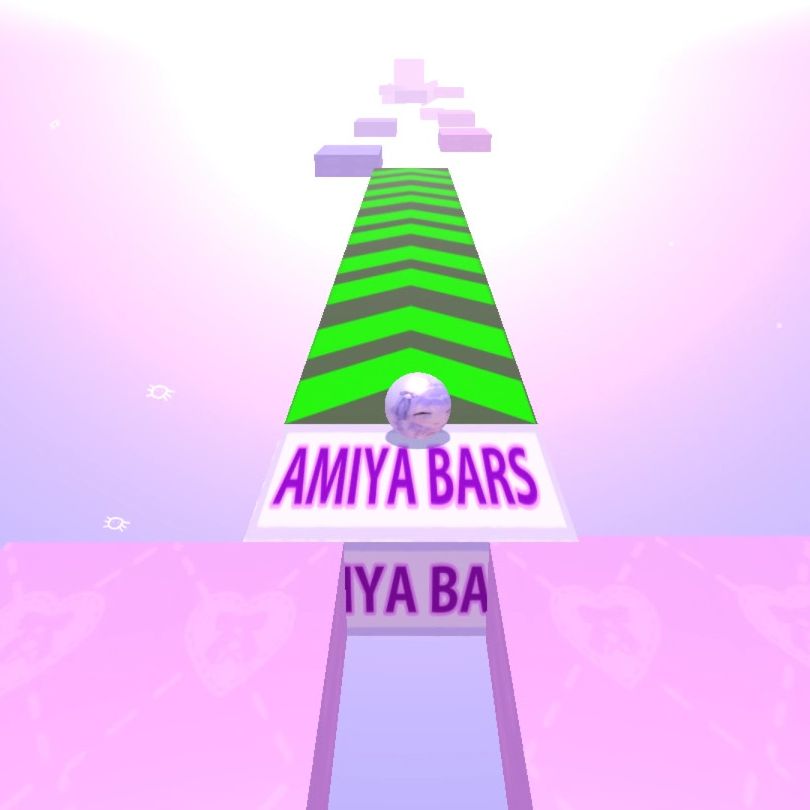
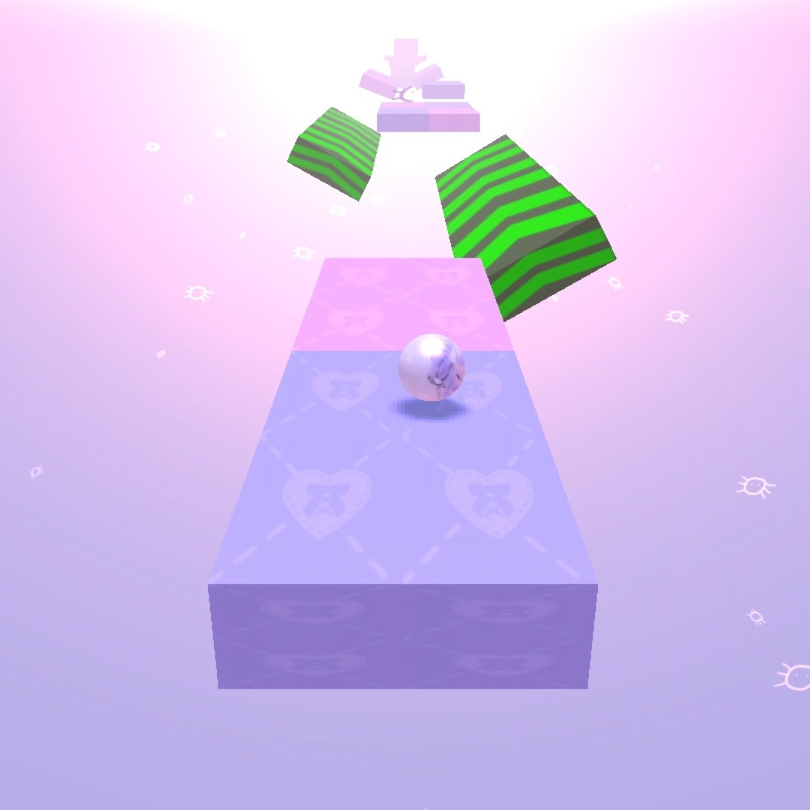
Changed levels 1-5 and 1-6

diff --git a/js/maps/MapGenerator.js b/js/maps/MapGenerator.js
@@ -5,8 +5,8 @@ mapData["1-1"] = "Tile0,c0bdf2,0,0.25,0,0,0,0|Tile1,ffbef4,-7.549517245077422e-1
 mapData["1-2"] = "Tile0,c0bdf2,0,1.5,0,0,0,0|Tile1,ffbef4,0,1.5,-12,-0.0000011446302323750192,-2.699436141208129e-13,4.7166955141621584e-7|Tile2,c0bdf2,0,1.5,-24,-0.0000011446302323750192,-2.699436141208129e-13,4.7166955141621584e-7|Tile3,ffbef4,0,1.5,-44.5,-0.0000011446302323750192,-2.699436141208129e-13,4.7166955141621584e-7|Tile4,c0bdf2,0,1.5,-56.5,-0.0000011446302323750192,-2.699436141208129e-13,4.7166955141621584e-7|Tile5,ffbef4,0,1.5,-80.5,-0.0000011446302323750192,-2.699436141208129e-13,4.7166955141621584e-7|Tile6,c0bdf2,0,1.5,-92.5,-0.0000011446302323750192,-2.699436141208129e-13,4.7166955141621584e-7|Tile7,ffbef4,0,1.5,-122.5,-0.0000011446302323750192,-2.699436141208129e-13,4.7166955141621584e-7|Tile8,c0bdf2,0,1.5,-134.5,-0.0000011446302323750192,-2.699436141208129e-13,4.7166955141621584e-7|Tile9,ffbef4,6,1.5,-152,-0.0000011446302323750192,-2.699436141208129e-13,4.7166955141621584e-7|Tile10,c0bdf2,-6,1.5,-152,-0.0000011446059033917467,-2.699384295386583e-13,4.716705177543365e-7|Tile11,ffbef4,6,1.5,-164,-0.0000011446059033917467,-2.699384295386583e-13,4.716705177543365e-7|Tile12,c0bdf2,-6,1.5,-164,-0.0000011446059033917467,-2.699384295386583e-13,4.716705177543365e-7|Tile13,ffbef4,6,3,-176,-0.0000011446059033917467,-2.699384295386583e-13,4.716705177543365e-7|Tile14,c0bdf2,-7.5,1.5,-182,0.000009038056305267004,-0.000001499382492788512,-0.3376721937412079|Tile15,ffbef4,3,4.5,-188,9.787673604932931e-8,-6.160301771980097e-16,-1.2587877407099791e-8|Tile16,c0bdf2,-1,4.5,-200,1.2777569224908874e-7,-6.779980345697631e-16,-1.0612316359015518e-8|AmiyaBar,ffffff,-1,4.5,-209,0.000004870919383412171,1.6480958484060844e-13,6.76708324931497e-8|Tile18,c0bdf2,-1,4.5,-220,0.000004870649718233092,1.6480215640136746e-13,6.767152882503086e-8|Tile19,ffbef4,4.5,4.5,-238,0.000004781184998155393,9.107934002178789e-7,0.38978676508310084|Tile20,c0bdf2,4.5,4.5,-250,0.000004426766736301849,8.432783774912281e-7,0.38978676508310073|Tile21,ffbef4,4.5,4.5,-262,0.000004426344276012871,8.43197900780286e-7,0.38978676508310084|Tile22,c0bdf2,4.5,4.5,-274,0.000004426344276012871,8.43197900780286e-7,0.38978676508310084|Tile23,ffbef4,-1.5,3,-286.5,1.7351625558603775e-7,7.20985175861636e-15,8.310289700830264e-8|Tile24,c0bdf2,-1.5,3,-298.5,-0.000003276359166199152,-1.5662139990867795e-13,9.560697833421742e-8|Tile25,ffbef4,-8,3.5,-316,1.202870159033865e-8,-3.745742290774901e-9,-0.6578393005921698|Tile26,c0bdf2,-1.5,3.5,-315.5,0.01324274255735157,0.0033494834622648786,0.5256580907152423|Tile27,ffbef4,-5.5,1,-329.5,0.09587603581718875,-0.0023363095155257553,-0.04882960352811204|Tile28,c0bdf2,3,1.5,-347.5,0.018133605652986533,0.0000011664334845097632,0.0001286558694030145|Goal,ffffff,3,6.5,-355.5,0,0,0|Player,ffffff,-1.3454872771490045e-8,3.249999523162842,-2.690974554298009e-8,2.859379942023177e-16,-2.0440134132111166e-32,-1.4296899710115885e-16";
 mapData["1-3"] = "Tile,c0bdf2,0,0,0,0,0,0|Tile,ffbef4,-1.682941969615793,0,-12,0,0,0|Tile,c0bdf2,-1.8185948536513634,0,-24,0,0,0|Tile,ffbef4,-0.2822400161197344,0,-36,0,0,0|Tile,c0bdf2,0.5588309963978517,0,-72,0,0,0|Tile,ffbef4,-1.3139731974375781,0,-84,0,0,0|Tile,c0bdf2,-1.9787164932467636,0,-96,0,0,0|Tile,ffbef4,-1.6733112770721121,0,-252,0,0,0.04|Tile,c0bdf2,0.017702618580807752,0,-264,0,0,0.04|Tile,ffbef4,1.6924408083503413,0,-276,0,0,0.04|Tile,c0bdf2,-1.5251169009592056,0,-298,0,0,0.04|Tile,ffbef4,-1.912751856809006,0,-324,0,0,0.04|Tile,ffbef4,0.317245337609418,0,-492,0,0,0|Tile,c0bdf2,1.8330430958312676,0,-504,0,0,0|Tile,ffbef4,1.6635494852571966,0,-516,0,0,0|Tile,c0bdf2,-1.8035766952976184,0,-552,0,0,0|Tile,ffbef4,-0.247146245490448,0,-564,0,0,0|AmiyaBar,ffffff,1.5365093226473336,0,-576,0,0,0|Tile,ffbef4,7.999980413101407,1.5,-132,0,0,0|Tile,c0bdf2,7.07314583600087,1.5,-144,0,0,0|Tile,ffbef4,5.159665926346718,1.5,-156,0,0,0|Tile,c0bdf2,4.0187852886102595,1.5,-168,0,0,0|Tile,c0bdf2,6.575806633330131,1.5,-192,0,0,0|Tile,ffbef4,7.922794983759114,1.5,-204,0,0,0|AmiyaBar,ffffff,7.5019744935433526,1.5,-216,0,0,0|Tile,ffbef4,5.700245580674095,1.5,-228,0,0,0|Tile,ffbef4,6.80807529064613,1.5,-372,0,0,0.04|Tile,c0bdf2,4.897146637516618,1.5,-384,0,0,0.04|Tile,ffbef4,4.000176279785466,1.5,-396,0,0,0.04|Tile,c0bdf2,4.9418346277599525,1.5,-408,0,0,0.04|Tile,c0bdf2,7.983557706886232,1.5,-432,0,0,0.04|Tile,ffbef4,7.287076266713999,1.5,-444,0,0,0.04|Tile,c0bdf2,5.407262842581229,1.5,-456,0,0,0.04|Tile,ffbef4,4.072409227431825,1.5,-468,0,0,0.04|Tile,ffbef4,4.659541648313251,1.5,-612,0,0,0|Tile,c0bdf2,4.026744815919029,1.5,-624,0,0,0|Tile,ffbef4,5.208149699636332,1.5,-636,0,0,0|Tile,c0bdf2,7.117578097703232,1.5,-648,0,0,0|Tile,c0bdf2,7.043102004173823,1.5,-672,0,0,0|Tile,ffbef4,5.12767048950435,1.5,-684,0,0,0|Tile,c0bdf2,4.014254703830925,1.5,-696,0,0,0|Tile,ffbef4,4.726523985721724,1.5,-708,0,0,0|Tile,c0bdf2,-7.973193476339988,-1,-120,0,0,0|Tile,ffbef4,-4.986732699485144,-1,-132,0,0,0|Tile,ffbef4,-3.697826692476052,-1,-156,0,0,0|Tile,c0bdf2,-6.58039570107137,-1,-168,0,0,0|AmiyaBar,ffffff,-8.585075124305089,-1,-192,0,0,0|Tile,ffbef4,-5.864092522275234,-1,-204,0,0,0|Tile,ffbef4,-3.1837633551029443,-1,-228,0,0,0|Tile,ffbef4,-2.851735281263341,-1,-362,0,0,-0.04|Tile,c0bdf2,-4.04875659972216,-1,-384,0,0,-0.04|Tile,c0bdf2,-9.074793510473839,-1,-408,0,0,-0.04|Tile,ffbef4,-8.282893945778369,-1,-420,0,0,-0.04|Tile,ffbef4,-3.06021971080697,-1,-444,0,0,-0.04|Tile,c0bdf2,-3.431147646567501,-1,-456,0,0,-0.04|Tile,c0bdf2,-2.8427270608197315,-1,-600,0,0,0|Tile,c0bdf2,-7.475599934427602,-1,-624,0,0,0|Tile,ffbef4,-9.15077350881819,-1,-636,0,0,0|Tile,ffbef4,-4.933864557855513,-1,-660,0,0,0|Tile,c0bdf2,-2.918788674745336,-1,-672,0,0,0|Tile,c0bdf2,-6.635332241738079,-1,-696,0,0,0|Tile,ffbef4,-8.949978676066673,-1,-708,0,0,0|Goal,00ff00,-8.949978676066673,3,-709,0,0,0|Player,ffffff,0,3,0,0,-0.6051864057360395,0";
 mapData["1-4"] = "Tile0,c0bdf2,0,1.25,0,0,0,0|Tile1,ffbef4,-6.217248937900877e-14,1.2500004768371582,-11.999993324279785,-8.339016326422422e-14,3.924122948179535e-34,-9.411476832695085e-21|Tile2,c0bdf2,-4.2743586448068527e-14,1.2500007152557373,-23.800018310546875,1.3698912067639651e-13,-6.446349677885885e-34,-9.411476832695085e-21|Tile3,ffbef4,5.745405507687901e-14,1.2500009536743164,-35.80006408691406,-7.364441088203444e-13,5.848053974832778e-33,-1.588186776101813e-20|Tile4,c0bdf2,-5.999998569488525,1.2500011920928955,-35.80006408691406,-2.015051320247707e-12,4.622626288441468e-33,-4.588097823606017e-21|Tile5,ffbef4,-5.999998569488525,1.2500014305114746,-47.80010986328125,-3.056810880808225e-12,2.128158865039973e-25,-1.3924046648756266e-13|Tile6,c0bdf2,-5.999998569488525,1.2500016689300537,-59.80015563964844,-4.335417875395153e-12,5.394885111814471e-25,-2.488749766167697e-13|Tile7,ffbef4,-5.999998569488525,1.2500019073486328,-71.800048828125,-5.377177002274802e-12,1.0434826810069866e-24,-3.881154295518052e-13|Tile8,c0bdf2,3.8743019104003906e-7,1.2500019073486328,-71.800048828125,-5.836069041226244e-12,9.890887757552623e-25,-3.389571880552805e-13|Tile9,ffbef4,3.8743019104003906e-7,1.250002145767212,-83.79986572265625,-6.103447608429846e-12,1.0344037193980538e-24,-3.389571880552805e-13|Tile10,c0bdf2,3.8743019104003906e-7,1.250002384185791,-95.7996826171875,-6.370826175633448e-12,1.0797186630408452e-24,-3.389571880552805e-13|Tile11,ffbef4,6.000679969787598,1.2608957290649414,-95.7996826171875,-6.7862343348934484e-12,3.127245796164427e-20,-9.216439167403223e-9|Tile12,c0bdf2,6.000679969787598,1.2608959674835205,-107.79949951171875,-7.053612902097051e-12,3.2504706746462297e-20,-9.216470253647913e-9|Tile13,ffbef4,6.000679969787598,1.2608962059020996,-119.79931640625,-7.320991902981522e-12,3.3736965841586043e-20,-9.216501339892602e-9|Tile14,c0bdf2,6.000679969787598,1.2608964443206787,-131.79913330078125,-7.588370903865993e-12,3.4969233248518836e-20,-9.216532426137292e-9|Tile15,ffbef4,0.000681072473526001,1.2608966827392578,-131.79913330078125,-7.855749904750464e-12,3.6201508967260676e-20,-9.216563512381981e-9|Tile16,c0bdf2,-0.07347646355628967,4.84999942779541,-53.799076080322266,-0.000011268510206957408,-7.857537080878837e-12,0.0000013946008721181752|Tile17,ffbef4,-0.07347646355628967,4.84999942779541,-116.3983154296875,-0.000011268510206957408,-7.857537080878837e-12,0.0000013946008721181752|Tile18,c0bdf2,-6.258487701416016e-7,1.260896921157837,-143.79827880859375,-0.000002774695076372077,1.66530255193223e-14,-1.2003499527679781e-8|Tile19,ffbef4,-6.258487701416016e-7,1.260896921157837,-155.798095703125,-0.000002774695076372077,1.66530255193223e-14,-1.2003499527679781e-8|Tile20,c0bdf2,-6.258487701416016e-7,1.260896921157837,-188.59759521484375,-0.000002774695076372077,1.66530255193223e-14,-1.2003499527679781e-8|Tile21,ffbef4,-6.258487701416016e-7,1.260896921157837,-212.59722900390625,-0.000002774695076372077,1.66530255193223e-14,-1.2003499527679781e-8|Tile22,c0bdf2,-6.258487701416016e-7,1.260896921157837,-230.59695434570312,-0.000002774695076372077,1.66530255193223e-14,-1.2003499527679781e-8|Tile23,ffbef4,5.999998092651367,1.260896921157837,-230.59695434570312,-0.000002774695076372077,1.66530255193223e-14,-1.2003499527679781e-8|Tile24,c0bdf2,5.999998092651367,1.260896921157837,-254.7965850830078,-0.000002774695076372077,1.66530255193223e-14,-1.2003499527679781e-8|Tile25,ffbef4,-0.0000011026859283447266,1.260896921157837,-272.5975646972656,-0.000002774695076372077,1.66530255193223e-14,-1.2003499527679781e-8|Tile26,c0bdf2,-7.399998664855957,1.260896921157837,-287.9985046386719,-0.000002688432005019022,6.65128415575507e-7,-0.5133994294317872|Tile27,ffbef4,-7.305878162384033,1.239469289779663,-299.9992370605469,-0.0000025159154120073407,6.22447184595364e-7,-0.5133994623885403|Tile28,c0bdf2,-7.211751461029053,1.2180531024932861,-311.9999694824219,-0.0000023628940653019815,5.845891127440586e-7,-0.5133994623885403|Tile29,ffbef4,-7.1176323890686035,1.196626901626587,-323.8006896972656,-0.000002207932539024088,5.462510329772333e-7,-0.5133994623885402|Tile30,c0bdf2,0.1764894723892212,-1.4247944056987762,-335.4013977050781,-1.6161345683940525e-7,1.0311584309547236e-10,-0.0012760802608562654|Tile31,ffbef4,0.1764894723892212,-1.4247929751873016,-347.4021301269531,-1.7047469214049022e-8,1.147330578202497e-12,-0.00013460421218670907|Tile32,c0bdf2,6.176488876342773,2.3752079010009766,-362.4030456542969,-1.639210900350469e-8,-4.712476720363144e-9,0.6031889723440547|Tile33,ffbef4,6.034595012664795,2.4015960693359375,-381.4042053222656,-3.42913395456892e-8,-9.858227473022467e-9,0.6031889723440546|Tile34,c0bdf2,5.892698764801025,2.427985668182373,-401.4054260253906,-6.465060664595511e-8,-1.8586045194750847e-8,0.6031889723440538|Tile35,ffbef4,-6.2491865158081055,2.654362201690674,-415.0062561035156,-9.035024817194406e-8,2.598590902182462e-8,-0.6034806522342421|Tile36,c0bdf2,-6.107123374938965,2.880901336669922,-438.6076965332031,-7.287087555596379e-8,2.0958613626984794e-8,-0.6034806522342424|Tile37,ffbef4,3.233452320098877,3.1050705909729004,-452.6085510253906,-6.671483276932135e-8,-8.864556147139583e-9,0.26880462114666204|Tile38,c0bdf2,-3.982316255569458,3.1633543968200684,-472.0097351074219,-7.790927014639286e-8,9.718498489163171e-9,-0.2520211226295307|Tile39,ffbef4,1.2303059101104736,3.2131576538085938,-494.2110900878906,-7.951898339797489e-8,-3.3069603146027194e-9,0.08326980875434409|Tile40,c0bdf2,-0.37019237875938416,3.21913480758667,-520.212646484375,-8.19647496541621e-8,5.546240928464378e-12,-0.0001353323463756218|Tile41,ffbef4,-0.37019237875938416,3.21913480758667,-532.21337890625,-2.909109575455218e-8,6.986479125175369e-13,-0.0000480317358054039|Goal,00ff00,-0.37019237875938416,5.219133377075195,-539.6138305664062,0,0,0|AmiyaBar,ffffff,5.999307632446289,1.2719132900238037,-140.79762268066406,-0.000001029617806125492,7.454042819705844e-16,-1.4479242249620938e-9|AmiyaBar,ffffff,6.235138416290283,2.252838134765625,-371.329345703125,0.000001824798573580766,5.101355766663709e-7,0.5852492442861101|Player,ffffff,0,3,0,0,0,0";
-mapData["1-5"] = "Tile0,c0bdf2,0,1.25,0,0,0,0|Tile1,ffbef4,-6.217248937900877e-14,1.2500004768371582,-11.999993324279785,-8.339016326422422e-14,3.924122948179535e-34,-9.411476832695085e-21|Tile2,c0bdf2,-4.2743586448068527e-14,1.2500007152557373,-24.000019073486328,1.3698912067639651e-13,-6.446349677885885e-34,-9.411476832695085e-21|Boost3,ffffff,5.745405507687901e-14,1.2500009536743164,-36.000064849853516,-7.364441088203444e-13,5.848053974832778e-33,-1.588186776101813e-20|Tile4,c0bdf2,1.6361915891171391e-13,1.2500011920928955,-48.0001106262207,-1.9817446295089525e-12,3.6719472515775156e-33,-3.705772375411832e-21|Tile5,ffbef4,3.246276136792403e-9,1.2608990669250488,-98.59896087646484,6.850426004234578e-9,2.3611019789193848e-24,6.893299708543305e-16|Tile6,c0bdf2,3.2462155186152586e-9,1.260899305343628,-110.5987777709961,6.849909528483522e-9,2.360901665993926e-24,6.893234592885485e-16|Tile7,ffbef4,3.2461593413302126e-9,1.260899543762207,-122.59859466552734,6.849540490350137e-9,2.3607612373471865e-24,6.893195947007267e-16|Tile8,c0bdf2,4.400000095367432,1.2609000205993652,-134.59841918945312,6.848919653634766e-9,2.3605472598906792e-24,6.893195947007267e-16|Tile9,ffbef4,4.400000095367432,1.2609002590179443,-146.59823608398438,6.8483858584045265e-9,-1.0337214695659608e-22,-3.0188762459911617e-14|Tile10,c0bdf2,4.400000095367432,1.2609007358551025,-158.59805297851562,6.847673983401137e-9,7.165330236416529e-23,2.092777855308356e-14|Tile11,ffbef4,4.399319648742676,1.2717938423156738,-170.59786987304688,6.847941325105467e-9,9.280963065265479e-18,2.710584867671173e-9|Tile12,c0bdf2,-4.200681686401367,1.271794319152832,-134.59841918945312,6.8498073879652566e-9,9.283934726308019e-18,2.7107140976312394e-9|Tile13,ffbef4,-4.200681686401367,1.2717945575714111,-146.3982391357422,6.849273592735017e-9,9.283105544504789e-18,2.710683233431155e-9|Tile14,c0bdf2,-4.200681686401367,1.2717947959899902,-158.39805603027344,6.848799305458897e-9,9.282490856891501e-18,2.710691449081537e-9|Tile15,ffbef4,-4.200681686401367,1.2717950344085693,-170.3978729248047,6.848250855284732e-9,9.282006782517851e-18,2.7107671662918165e-9|AmiyaBar,ffffff,3.246276136792403e-9,1.2717759609222412,-179.3970489501953,5.376299583303992e-8,1.8530213636747555e-23,6.893296532169758e-16|Boost17,ffffff,3.2462297294699738e-9,1.2717759609222412,-188.39691162109375,5.376266898338147e-8,1.852993448210484e-23,6.89323459288549e-16|Boost18,ffffff,3.246149571367596e-9,1.2717761993408203,-200.396728515625,5.376213252361597e-8,1.852994169964702e-23,6.893306061290415e-16|Boost19,ffffff,3.2460374388421087e-9,1.2717764377593994,-212.39654541015625,5.3761446849875964e-8,1.852894830715825e-23,6.893024422835453e-16|Boost20,ffffff,3.2459572807397308e-9,1.2717766761779785,-224.3963623046875,5.3760910390110466e-8,1.8528968333325663e-23,6.893100655800706e-16|Boost21,ffffff,3.2458451482142436e-9,1.2717769145965576,-236.39617919921875,5.376022471637046e-8,1.8527822701809886e-23,6.892762372017396e-16|Tile22,c0bdf2,-5.999998569488525,1.2717771530151367,-260.1961364746094,5.375968825660496e-8,1.852773885082967e-23,6.89279995910443e-16|Tile23,ffbef4,6.599998474121094,1.271777629852295,-287.1977844238281,5.3758483886667845e-8,-8.602488001188776e-21,-3.200420614288271e-13|Tile24,c0bdf2,-5.199999809265137,1.2717781066894531,-312.2421569824219,5.37579722958981e-8,-1.4376767688350246e-20,-5.34870162483686e-13|Tile25,ffbef4,7.799996852874756,1.2717781066894531,-337.8008728027344,5.37576028136755e-8,-1.4012767665258477e-20,-5.213315673255337e-13|Tile26,c0bdf2,-3.2782554626464844e-7,4.2717766761779785,-355.4019470214844,5.375716582989301e-8,-1.7589765289867325e-20,-6.544156492746538e-13|Tile27,ffbef4,7.999996662139893,4.2717766761779785,-380.2034606933594,5.3755940143673824e-8,-1.7589364235745857e-20,-6.544156492746538e-13|Tile28,c0bdf2,-4.200000762939453,4.2717766761779785,-400.4046936035156,5.3755549345169156e-8,-2.148453809436823e-20,-7.993421462931805e-13|Tile29,ffbef4,5.399999141693115,-1.5282222628593445,-414.4055480957031,5.37551905210876e-8,-1.9495468750434716e-20,-7.253427459358313e-13|Tile30,c0bdf2,-4.40000057220459,1.2717785835266113,-431.2065734863281,5.375443379307401e-8,-2.521612724796977e-20,-9.381971111457877e-13|Boost31,ffffff,5.399999141693115,1.2717788219451904,-447.4075622558594,5.2398725358671066e-8,1.1690487032307243e-8,0.46007777307507697|Boost32,ffffff,5.32947301864624,1.4219682216644287,-459.2082824707031,5.43936309327365e-8,1.2135563893534326e-8,0.46007780552272526|Boost33,ffffff,5.258944034576416,1.5721633434295654,-471.0090026855469,7.154128667252742e-8,1.5961314597911773e-8,0.4600778055227251|Tile34,c0bdf2,5.188405990600586,1.7223758697509766,-482.8097229003906,8.968302722678368e-8,2.00088519264705e-8,0.46007780552272526|Tile35,ffbef4,-5.082132339477539,1.8725907802581787,-499.2107238769531,1.1431193058797374e-7,-2.3643084921038314e-8,-0.424816245734503|Tile36,c0bdf2,-2.4251785278320312,2.0043845176696777,-516.811767578125,6.50997336038017e-8,-8.654263150471608e-9,-0.26894150897041746|Tile37,ffbef4,5.390671730041504,2.0629453659057617,-535.8129272460938,8.235549842083865e-8,1.3725334202870763e-9,0.033338089457551144|Tile38,c0bdf2,7.3906378746032715,2.0639166831970215,-558.8143310546875,8.187045352769926e-8,1.492565111207159e-8,0.37235860733954107|Tile39,ffbef4,-0.8480234146118164,2.166430711746216,-570.4150390625,1.0025129881796632e-7,-1.6707620746087801e-9,-0.033337649629242114|Goal,ffffff,-0.8479909896850586,5.367399215698242,-577.8154907226562,0,0,0|Player,ffffff,0,3,0,0,0,0";
-mapData["1-6"] = "Tile0,c0bdf2,0,1.25,0,0,0,0|Tile1,ffbef4,-6.217248937900877e-14,1.2500004768371582,-11.999993324279785,-8.339016326422422e-14,3.924122948179535e-34,-9.411476832695085e-21|Tile2,c0bdf2,-4.2743586448068527e-14,1.2500007152557373,-23.800018310546875,1.3698912067639651e-13,-6.446349677885885e-34,-9.411476832695085e-21|Tile3,ffbef4,5.999998569488525,1.2500009536743164,-23.800018310546875,6.402902296906432e-13,-1.2005723345249229e-26,-3.7500879409169824e-14|Tile4,c0bdf2,5.999998569488525,1.2500011920928955,-35.80006408691406,-7.549475909869596e-13,-6.162799993192096e-26,1.6326431309318656e-13|Tile5,ffbef4,5.999998569488525,1.2500014305114746,-47.80010986328125,-1.7967070973373689e-12,-2.717562300506434e-25,3.0250476602822207e-13|Tile6,c0bdf2,5.999998569488525,1.2500016689300537,-74.60000610351562,-3.0753143087647317e-12,-6.337288857463002e-25,4.1213926260490197e-13|Tile7,ffbef4,5.999998569488525,1.2500019073486328,-86.59982299804688,-3.3426930928087684e-12,-7.414019282668396e-25,4.4359557260092997e-13|Tile8,c0bdf2,-5.999999046325684,1.250002145767212,-104.39955139160156,-3.728495377025576e-12,-8.994125956144796e-25,4.824533784628104e-13|Tile9,ffbef4,-5.999999046325684,1.250002384185791,-116.39936828613281,-3.995873944229178e-12,-1.0267592210539936e-24,5.139097155638928e-13|Tile10,c0bdf2,-5.999999046325684,1.2500026226043701,-128.39918518066406,-4.26325251143278e-12,-1.1625165968370684e-24,5.453660526649751e-13|Tile11,ffbef4,0.3999999463558197,3.4500017166137695,-142.79896545410156,-4.530631078636382e-12,-1.3066847229637041e-24,5.768223897660574e-13|Tile12,c0bdf2,4.400000095367432,3.4500017166137695,-154.59878540039062,-6.349545455391903e-12,-1.7803677852782734e-24,5.607859012227157e-13|Tile13,ffbef4,0.7999997138977051,3.4500017166137695,-166.59860229492188,-9.491477916123703e-12,-3.7502349264966625e-24,7.902320291186538e-13|Tile14,c0bdf2,5.1999993324279785,3.4500017166137695,-178.59841918945312,-1.1288190868152803e-11,-4.486602262163804e-24,7.949196314215035e-13|Tile15,ffbef4,1.7999999523162842,3.4500017166137695,-190.59823608398438,-1.3084903820181903e-11,-6.66473823811335e-24,1.0186912077769783e-12|Tile16,c0bdf2,-3.0000009536743164,3.4500017166137695,-202.59805297851562,-1.4019109657870121e-11,-7.111903245042486e-24,1.0146012719217112e-12|Tile17,ffbef4,4.200000286102295,-0.34999775886535645,-222.79774475097656,-1.5815820875175746e-11,-7.795107837863057e-24,9.857354732814572e-13|Tile18,c0bdf2,4.200000286102295,-0.34999752044677734,-234.7975616455078,-1.6556894744113038e-11,-9.270417183113498e-24,1.1198255864264262e-12|Tile19,ffbef4,4.200000286102295,-0.34999728202819824,-246.79737854003906,-1.729796861305033e-11,-1.084509720729852e-23,1.2539156995713951e-12|Boost20,ffffff,4.200000286102295,-0.34999704360961914,-258.7973937988281,-1.803904248198762e-11,-1.2519147910418124e-23,1.3880058127163641e-12|Tile21,ffbef4,4.200000286102295,-0.34999680519104004,-270.7981262207031,-1.8991117706201877e-11,-1.0899008192241088e-23,1.1478006045617661e-12|Tile22,c0bdf2,4.200000286102295,-0.34999656677246094,-282.7988586425781,-1.994319293041613e-11,-9.050175046652831e-24,9.075953964071681e-13|Tile23,ffbef4,4.200000286102295,-0.34999632835388184,-294.5995788574219,-2.0895268154630386e-11,-6.972647907285975e-24,6.673901340424615e-13|Boost24,ffffff,4.200000286102295,-0.34999608993530273,-306.6003112792969,-2.184734337884464e-11,-4.666427288895798e-24,4.2718487167775487e-13|Tile25,ffbef4,4.200000286102295,-0.34999585151672363,-318.6010437011719,-2.2799418603058896e-11,-2.1315131914822983e-24,1.8697960931304825e-13|Boost26,ffffff,4.200000286102295,-0.34999561309814453,-330.6017761230469,-2.375149382727315e-11,6.320940630617581e-25,-5.322562594660407e-14|Tile27,ffbef4,4.200000286102295,-0.34999537467956543,-342.6025085449219,-2.4703569051487406e-11,-2.3095318449425125e-24,1.8697960931304825e-13|Tile28,c0bdf2,4.200000286102295,-0.34999513626098633,-354.6032409667969,-2.565564427570166e-11,6.827688628188153e-25,-5.322562594660407e-14|Tile29,ffbef4,-1.8006813526153564,-0.3391042947769165,-222.79774475097656,3.236782220028545e-8,7.017295705099393e-17,4.3359702495137265e-9|Boost30,ffffff,-1.8006813526153564,-0.3391040563583374,-234.7975616455078,3.236746692891757e-8,7.017232338135984e-17,4.335978687208714e-9|Tile31,ffbef4,-1.8006813526153564,-0.3391038179397583,-246.79737854003906,3.236711165754969e-8,7.017168970872808e-17,4.335987124903701e-9|Tile32,c0bdf2,-1.8006813526153564,-0.3391035795211792,-258.7973937988281,3.236675638618181e-8,7.017105603309865e-17,4.335995562598688e-9|Tile33,ffbef4,-1.8006813526153564,-0.33910346031188965,-270.7981262207031,3.236628032254885e-8,7.017052700125353e-17,4.3360266488433775e-9|Boost34,ffffff,-1.8006813526153564,-0.33910322189331055,-282.7988586425781,3.2365921498467294e-8,7.017018745323697e-17,4.336053738285178e-9|Tile35,ffbef4,-1.8006813526153564,-0.33910298347473145,-294.7995910644531,3.2365562674385735e-8,7.016985508209864e-17,4.336081271816189e-9|Tile36,c0bdf2,-1.8006813526153564,-0.33910274505615234,-306.8003234863281,3.2365203850304176e-8,7.016952270108062e-17,4.3361088053472e-9|Tile37,ffbef4,-1.8006813526153564,-0.33910250663757324,-374.4044494628906,3.236484502622262e-8,7.01691903101829e-17,4.3361363388782104e-9|Tile38,c0bdf2,2.7993195056915283,-0.33910226821899414,-386.4051818847656,3.236448620214106e-8,7.01688579094055e-17,4.336163872409221e-9|Goal,ffffff,-0.20068109035491943,4.4608964920043945,-394.4056701660156,0,0,0|Death40,ffffff,3.2462748045247736e-9,1.2608985900878906,-30.799362182617188,6.850973122141113e-9,2.361290007273422e-24,6.893298120356529e-16|Death41,ffffff,5.9989118576049805,1.2789390087127686,-64.1467514038086,0.0011925529022846577,1.2983590692492332e-12,2.1774453351497414e-9|Death42,ffffff,5.9989118576049805,1.281012773513794,-93.88528442382812,0.0014066122221275009,-4.452626828421595e-11,-6.330996171755038e-8|Death43,ffffff,-3.3729710578918457,1.250002384185791,-116.60306549072266,0.0000029616994652358343,-4.748497485851764e-13,-3.206603196304113e-7|Death44,ffffff,-4.372947692871094,3.4500017166137695,-137.74679565429688,0.0011958313929156883,-2.598373929943182e-10,-4.3457205833875405e-7|Death45,ffffff,-1.5730645656585693,3.4553966522216797,-159.293212890625,0.002386232075801357,-5.027198749707544e-10,-4.213507622807892e-7|Death46,ffffff,6.826956748962402,3.459580421447754,-171.83651733398438,0.0035746183003979594,-4.484687750922825e-9,-0.0000025091894713140346|Death47,ffffff,-0.773064374923706,3.4658236503601074,-183.57644653320312,0.004760647479507936,-9.969111970032063e-10,-4.188148636785706e-7|Death48,ffffff,-2.9730420112609863,3.474116325378418,-209.71316528320312,0.005943715177457716,-1.3597034154620862e-8,-0.00000457529131382903|Death49,ffffff,-1.773064374923706,0.884479284286499,-241.65223693847656,0.007125209768054309,-1.4838177484360455e-9,-4.1650150706119206e-7|Death50,ffffff,4.226959228515625,0.8968415260314941,-265.58441162109375,0.008303979846538993,-2.7538657799965016e-8,-0.000006632717031655665|Death51,ffffff,-1.7730650901794434,0.9112014770507812,-289.5122985839844,0.009480411629302268,-1.9585298639561373e-9,-4.13180202940578e-7|Death52,ffffff,4.226958751678467,0.9275524616241455,-313.6358947753906,0.010653994413725852,-4.623718529208724e-8,-0.000008679948223398095|Death53,ffffff,4.226936340332031,0.9459261894226074,-337.3596496582031,0.011825288546643817,-2.429609650708078e-9,-4.1092718561232456e-7|Tile54,c0bdf2,4.598203182220459,1.2614772319793701,-116.3214111328125,0.000003238963699919829,-9.250432762478302e-13,-5.711970629818385e-7|Player,ffffff,0,3,0,0,0,0";
+mapData["1-5"] = "Tile0,c0bdf2,0,1.5,0,0,0,0|Tile1,ffbef4,0,1.5,-12,-5.5748086702500643e-11,2.1377276851561215e-28,-7.669241445232348e-18|Boost2,ffffff,0,1.5,-24,-6.530994495212994e-11,-6.003944716896674e-22,1.8386004524417743e-11|Boost3,ffffff,0,1.5,-36,-6.544317171508496e-11,-6.016192256228996e-22,1.8386004524417743e-11|Tile4,c0bdf2,0,1.5,-84,5.393876900683381e-9,-7.390219338398049e-25,-2.7402254350527503e-16|Tile5,ffbef4,0,1.5,-96,5.393876900683381e-9,-7.390219338398049e-25,-2.7402254350527503e-16|Boost6,ffffff,5.5,1.5,-109.5,5.21488807692094e-9,1.3322460982046492e-9,0.5312850058660458|Boost7,ffffff,5.5,1.5,-121.5,1.0990957832746087e-7,2.8078571336958046e-8,0.5312850058660454|Boost8,ffffff,5.5,1.5,-133.5,1.0990795829002331e-7,2.8078157466416048e-8,0.5312850058660454|Boost9,ffffff,-5.5,1.5,-144.5,1.0949590034670079e-7,-2.6204682331313556e-8,-0.49556933096235833|Boost10,ffffff,-5.5,1.5,-156.5,1.0949590034670079e-7,-2.6204682331313556e-8,-0.49556933096235833|Boost11,ffffff,-5.5,1.5,-168.5,1.0949590034670079e-7,-2.6204682331313556e-8,-0.49556933096235833|Tile12,c0bdf2,0,1.5,-188.5,5.46466694117953e-9,-2.649611011542665e-25,-9.697246108729017e-17|Tile13,ffbef4,0,1.5,-200.5,5.46466694117953e-9,-2.649611011542665e-25,-9.697246108729017e-17|Tile14,c0bdf2,6,1.5,-200.5,5.46466694117953e-9,-2.649611011542665e-25,-9.697246108729017e-17|Tile15,ffbef4,6,1.5,-188.5,5.46466694117953e-9,-2.649611011542665e-25,-9.697246108729017e-17|Tile16,c0bdf2,6,3.5,-220,-5.09281846916587e-7,2.4693160411434493e-23,-9.697247432217997e-17|Tile17,ffbef4,-4,3.5,-236,-3.691331471600346e-7,6.426902247144899e-8,-0.35498653077671627|Tile18,c0bdf2,-4,3.5,-248,-2.9765243425572847e-7,5.182366073878887e-8,-0.354986530776717|Tile19,ffbef4,-4,3.5,-260,-2.976661335196739e-7,5.182604588980857e-8,-0.354986530776717|Tile20,c0bdf2,5,3.5,-274.5,-2.9588815664283603e-7,-6.119847098010145e-8,0.4248166632558039|Tile21,ffbef4,5,3.5,-286.5,-2.90315114170885e-7,-6.004580004571775e-8,0.42481666325580414|Tile22,c0bdf2,5,3.5,-298.5,-2.902121138959087e-7,-6.002449652546009e-8,0.42481666325580414|Boost23,ffffff,0,1.5,-314,1.9215831059682506e-7,4.2767998116309796e-24,4.451329529644253e-17|Boost24,ffffff,0,2.5,-326.5,0.18408911019563584,1.717440998744135e-17,1.8761971687584865e-16|Tile25,ffbef4,0,1.5,-374.5,-1.1146932621386463e-7,5.518696845766369e-24,-9.901731773597054e-17|Tile26,c0bdf2,0,1.5,-386.5,-1.1146932621386463e-7,5.518696845766369e-24,-9.901731773597054e-17|Tile27,ffbef4,0,1.5,-416,-1.1146932621386463e-7,5.518696845766369e-24,-9.901731773597054e-17|Tile28,c0bdf2,0,3.5,-440,1.370700459801818e-7,-1.5766311013804282e-23,-2.3004750455958795e-16|Tile29,ffbef4,0,3.5,-452,1.370700459801818e-7,-1.5766311013804282e-23,-2.3004750455958795e-16|Tile30,c0bdf2,0,3.5,-477.5,1.370700459801818e-7,-1.5766311013804282e-23,-2.3004750455958795e-16|Tile31,ffbef4,7,3.5,-499,1.3535562004562967e-7,2.1341856260520773e-8,0.3204101708773784|Tile32,c0bdf2,-5,3.5,-513,1.3600151760329035e-7,-1.6955970726396947e-8,-0.2518843866170029|Tile33,ffbef4,4,1.5,-533.5,1.3649447794250665e-7,1.249439858687556e-8,0.18408779243903803|Tile34,c0bdf2,-3.5,1.5,-557,0.2515632696155031,-0.012350054298192529,-0.09934168995120225|Tile35,ffbef4,5,2,-577,0.06618122500114354,0.0016522115446724161,0.049987017742699584|Goal,ffffff,1.5,5.5,-585,0,0,0|AmiyaBar,ffffff,0,1.5,-406.5,1.1926395870887071e-8,-1.3279075594982517e-24,-2.226837971628531e-16|AmiyaBar,ffffff,0,1.5,-425.5,1.1926395870887071e-8,-1.3279075594982517e-24,-2.226837971628531e-16|Ball39,ffffff,-2,8.5,-379.5,1.1926395870887065e-8,-1.3279075594982517e-24,-2.226837971628531e-16|Ball40,ffffff,0,4.5,-195,-0.0000012455917612900104,-9.205114715631618e-15,1.478030764445748e-8|Player,ffffff,-1.3711811241989835e-8,3.249999523162842,-2.742362248397967e-8,5.346068563628014e-16,-7.145112271752924e-32,-2.673034281814007e-16";
+mapData["1-6"] = "Tile0,c0bdf2,0,1.5,0,0,0,0|Tile1,ffbef4,0,1.5,-12,-3.582001709134808e-11,2.3963126669103365e-29,-1.33797404998399e-18|Tile2,c0bdf2,0,1.5,-24,-3.617091001717476e-11,-1.0120156706705179e-22,5.5957434866305e-12|Tile3,ffbef4,6,1.5,-24,-3.619178567948467e-11,-1.0125997449275167e-22,5.5957434866305e-12|Tile4,c0bdf2,6,1.5,-36,-3.6015877780126715e-11,-1.0094107272455524e-22,5.605365130390005e-12|Tile5,ffbef4,6,1.5,-48,-3.6015877780126715e-11,-1.0094107272455524e-22,5.605365130390005e-12|Tile6,c0bdf2,0,1.5,-48,-3.6115044982354405e-11,-1.0184576150661395e-22,5.640073911378218e-12|Tile7,ffbef4,0,1.5,-60,-3.7012979486883424e-11,-1.0437796999317418e-22,5.640073911378218e-12|Tile8,c0bdf2,0,1.5,-80.5,-3.7012979486883424e-11,-1.0437796999317418e-22,5.640073911378218e-12|Tile9,ffbef4,0,1.5,-92.5,-3.7012979486883424e-11,-1.0437796999317418e-22,5.640073911378218e-12|Tile10,c0bdf2,0,1.5,-116.5,-3.7012979486883424e-11,-1.0437796999317418e-22,5.640073911378218e-12|Tile11,ffbef4,0,1.5,-128.5,-3.7012979486883424e-11,-1.0437796999317418e-22,5.640073911378218e-12|Tile12,c0bdf2,6,2.5,-146.5,-3.6212605830643295e-11,-7.489836891583947e-12,0.42481624573450294|Tile13,ffbef4,6,2.5,-158.5,6.579791156369197e-10,1.3608952300303499e-10,0.42481624573450294|Tile14,c0bdf2,-6.5,2.5,-146.5,6.554087828014588e-10,-1.355579315238259e-10,-0.42481634208556807|Tile15,ffbef4,-6.5,2.5,-158.5,6.554087828014588e-10,-1.355579315238259e-10,-0.42481634208556807|Death16,ffffff,0,5.5,-31,5.960274052085879e-9,1.1069305443616937e-25,3.714361234696275e-17|Death17,ffffff,0,1.5,-70,-0.00021508110678340885,-1.400730379090906e-14,1.3025136524902443e-10|Death18,ffffff,0,2.5,-103,-0.00007785182250378719,1.9912408222638788e-15,-5.115463608262845e-11|Death19,ffffff,0,2.5,-138.5,-1.5427113842874995,-0.0008317439143348806,0.0011998613450025283|Death20,ffffff,0,3.5,-169.5,-1.5427130856910416,-0.0008317419297054659,0.0011998570376325203|Tile21,ffbef4,0,1.5,-183.5,5.960504534385791e-9,-2.2126153092760245e-18,-7.424255099586219e-10|Tile22,c0bdf2,0,1.5,-195.5,5.960504534385791e-9,-2.2126153092760245e-18,-7.424255099586219e-10|Boost23,ffffff,0,1.5,-207.5,5.960504534385791e-9,-2.2126153092760245e-18,-7.424255099586219e-10|Boost24,ffffff,0,1.5,-219.5,5.960504534385791e-9,-2.2126153092760245e-18,-7.424255099586219e-10|Boost25,ffffff,0,1.5,-231.5,5.960504534385791e-9,-2.2126153092760245e-18,-7.424255099586219e-10|Boost26,ffffff,0,1.5,-243.5,5.960504534385791e-9,-2.2126153092760245e-18,-7.424255099586219e-10|Boost27,ffffff,0,1.5,-255.5,5.960504534385791e-9,-2.2126153092760245e-18,-7.424255099586219e-10|Boost28,ffffff,0,1.5,-267.5,5.960504534385791e-9,-2.2126153092760245e-18,-7.424255099586219e-10|Boost29,ffffff,0,1.5,-279.5,5.960504534385791e-9,-2.2126153092760245e-18,-7.424255099586219e-10|Boost30,ffffff,0,1.5,-291.5,5.960504534385791e-9,-2.2126153092760245e-18,-7.424255099586219e-10|Tile31,ffbef4,0,1.5,-303.5,5.960504534385791e-9,-2.2126153092760245e-18,-7.424255099586219e-10|Tile32,c0bdf2,0,1.5,-315.5,5.960504534385791e-9,-2.2126153092760245e-18,-7.424255099586219e-10|Tile33,ffbef4,0,1.5,-327.5,5.960504534385791e-9,-2.2126153092760245e-18,-7.424255099586219e-10|Death34,ffffff,0,1.5,-214.5,5.651452852362427e-7,-2.097887147759192e-16,-7.424240111575347e-10|Death35,ffffff,0,1.5,-238.5,0.00017632708568692475,-6.844526555353387e-14,-7.763443221620037e-10|Death36,ffffff,0,1.5,-265.5,-0.000017630574803665025,-9.533187219482459e-15,1.0814380502210952e-9|Death37,ffffff,0,2.5,-298.5,-0.00016166351340348781,-3.15313227905923e-13,3.900858303040877e-9|Tile38,c0bdf2,7,1.5,-292,5.708591377384664e-9,1.6415001898973975e-9,0.6033355531348282|Tile39,ffbef4,-7,1.5,-291,6.527719165205785e-8,-1.3501252036407009e-8,-0.424816245734503|Player,ffffff,0.0000050287230806134176,9.483899116516113,-323.24951171875,-0.0005129716649994772,0.002248387735437358,5.87863519114305e-7|Goal,ffffff,0,7.5,-338,0,0,0";
 mapData["1-7"] = "Tile0,c0bdf2,0,1.5,0,0,0,0|Tile1,ffbef4,0,1.5,-12,-1.259821375909978e-13,-3.2013324200852946e-34,5.082200510803286e-21|Tile2,c0bdf2,0,1.5,-24,-1.365908932184426e-13,3.8565377245755767e-35,-5.64684457902771e-22|Tile3,ffbef4,0,1.5,-36,-2.906921394135037e-13,-1.636375915911866e-33,1.1258480667646498e-20|Tile4,c0bdf2,0,1.5,-48,-1.572242602776467e-8,1.7381552660025185e-23,-2.211052242107026e-15|Tile5,ffbef4,6,1.5,0,-1.572242602776467e-8,1.7381552660025185e-23,-2.211052242107026e-15|Tile6,c0bdf2,6,1.5,-12,-1.572242602776467e-8,1.7381552660025185e-23,-2.211052242107026e-15|Tile7,ffbef4,6,1.5,-24,-1.572242602776467e-8,1.7381552660025185e-23,-2.211052242107026e-15|Tile8,c0bdf2,6,1.5,-36,-1.572242602776467e-8,1.7381552660025185e-23,-2.211052242107026e-15|Tile9,ffbef4,6,1.5,-48,-1.572242602776467e-8,1.7381552660025185e-23,-2.211052242107026e-15|Tile10,c0bdf2,-6,1.5,-12,-1.572242602776467e-8,1.7381552660025185e-23,-2.211052242107026e-15|Tile11,ffbef4,-6,1.5,-24,-1.572242602776467e-8,1.7381552660025185e-23,-2.211052242107026e-15|Tile12,c0bdf2,-6,1.5,-36,-1.572242602776467e-8,1.7381552660025185e-23,-2.211052242107026e-15|Tile13,ffbef4,-6,1.5,-48,-1.572242602776467e-8,1.7381552660025185e-23,-2.211052242107026e-15|Tile14,c0bdf2,-6,1.5,-60,-1.572242602776467e-8,1.7381552660025185e-23,-2.211052242107026e-15|Tile15,ffbef4,-6,1.5,0,-1.572242602776467e-8,1.7381552660025185e-23,-2.211052242107026e-15|Tile16,c0bdf2,6,1.5,-60,-1.57224633312583e-8,1.7381593900011797e-23,-2.211052242107026e-15|Tile17,ffbef4,0,1.5,-60,-1.57224633312583e-8,1.7381593900011797e-23,-2.211052242107026e-15|Tile18,c0bdf2,0,1.5,-72,-1.57224633312583e-8,1.7381593900011797e-23,-2.211052242107026e-15|Tile19,ffbef4,0,1.5,-92,-1.57224633312583e-8,1.7381593900011797e-23,-2.211052242107026e-15|Tile20,c0bdf2,0,1.5,-104,-1.57224633312583e-8,1.7381593900011797e-23,-2.211052242107026e-15|Tile21,ffbef4,3,1.5,-116.5,-1.570282748275557e-8,-7.848141503139034e-10,0.10012428057796542|Tile22,c0bdf2,3,1.5,-128.5,-1.570282748275557e-8,-7.848141503139034e-10,0.10012428057796542|Tile23,ffbef4,3,1.5,-140.5,-1.570282748275557e-8,-7.848141503139034e-10,0.10012428057796542|Tile24,c0bdf2,-3,1.5,-116.5,0.0000012750741689163806,-5.311248813444069e-8,-0.08340502518737482|Tile25,ffbef4,-3,1.5,-128.5,0.0000012750092537320413,-5.31097841294168e-8,-0.08340502518737482|Tile26,c0bdf2,-3,1.5,-140.5,0.000001274993337574782,-5.310912115095244e-8,-0.08340502518737482|Tile27,ffbef4,0,0.5,-152.5,-1.5676439701906255e-8,1.2105352055596615e-23,-1.544400678442923e-15|Tile28,c0bdf2,0,0.5,-164.5,1.796857063141033e-8,-1.373560843876608e-23,-1.5288482006192822e-15|Tile29,ffbef4,0,0.5,-176.5,1.7967554555298193e-8,-1.3734735655061984e-23,-1.528837506828323e-15|Tile30,c0bdf2,6.5,0.5,-196.5,0.15041569556705203,-9.850149086547871e-17,-1.3145924871607002e-15|Tile31,ffbef4,-0.5,3,-212.5,0.15042122500544358,-1.7844196022086646e-8,-2.3813842631171294e-7|Tile32,c0bdf2,-8.5,5.5,-229.5,0.15041891981669747,-2.3046363668083592e-8,-3.0756825708522186e-7|Tile33,ffbef4,0,4,-252.5,-0.133620333964143,-1.5326420471956075e-9,2.300775214791904e-8|Tile34,c0bdf2,0,2,-264,-0.133620333964143,-1.5326420471956075e-9,2.300775214791904e-8|Tile35,ffbef4,0,0.5,-275.5,-0.133620333964143,-1.5326420471956075e-9,2.300775214791904e-8|Tile36,c0bdf2,0,-0.5,-287.5,0.008688933576914913,8.696725480525331e-12,2.001818710795078e-9|AmiyaBar,ffffff,-9,6,-239,0.00010039612260282984,8.499394363414741e-11,0.0000016931718391796258|Tile38,c0bdf2,13,0.5,-303.5,0.00009901961327879226,0.000020480295427930695,0.4248187187460194|Tile39,ffbef4,13,0.5,-315.5,0.00009837685518002346,0.000020347353324091105,0.4248187187460193|AmiyaBar,ffffff,13,0.5,-324.5,0.00009864556357197774,0.000020402930467365888,0.42481871874601873|Tile41,ffbef4,0,1.5,-304.5,6.007651709438733e-9,8.366320887788036e-26,2.785221678095471e-17|Tile42,c0bdf2,0,1.5,-316.5,6.007651709438733e-9,8.366320887788036e-26,2.785221678095471e-17|Tile43,ffbef4,0,1.5,-328.5,6.007651709438733e-9,8.366320887788036e-26,2.785221678095471e-17|Tile44,c0bdf2,0,1.5,-340.5,6.007651709438733e-9,8.366320887788036e-26,2.785221678095471e-17|Tile45,ffbef4,-7,1.5,-359,5.897643262642305e-9,-1.1234727794711057e-9,-0.38978651070077663|Tile46,c0bdf2,-7,1.5,-377.5,-1.2326758280778455e-7,2.3481883815011013e-8,-0.38978651070077663|Tile47,ffbef4,-7,1.5,-399.5,-1.2326839282650334e-7,2.348203811969519e-8,-0.38978651070077663|Tile48,c0bdf2,-0.5,1.5,-399,-5.858216809429331e-7,-9.236818408983986e-8,0.32041098225895254|Tile49,ffbef4,5.5,2,-409.5,-5.184961082705042e-7,6.464317301441146e-8,-0.25188335819601443|Tile50,c0bdf2,12,2.5,-419,-4.589668094468033e-7,-1.0984069370729351e-7,0.49557047847091074|Tile51,ffbef4,12,2.5,-431,-3.282766840584418e-7,-7.856371738159113e-8,0.49557047847091096|Tile52,c0bdf2,2.5,-0.5,-442,-6.410196107253715e-8,-1.0141133575133729e-10,0.003164068720016601|Goal,ffffff,2.5,3.5,-448.5,0,0,0|Tile54,c0bdf2,6,0.5,-328.5,9.433268388647724e-9,-1.098052573856508e-9,-0.2348723432657187|Player,ffffff,-1.2887362288438453e-8,3.249999523162842,-2.5774724576876906e-8,3.9871071672011396e-17,-3.974255890686674e-34,-1.9935535836005698e-17";
 mapData["1-8"] = "Tile0,c0bdf2,0,1.5,0,0,0,0|Boost1,ffffff,0,1.5,-12,-1.353936340819932e-7,-1.120240630749123e-24,1.6547906972800476e-17|Tile2,c0bdf2,0,1.5,-24,-2.405500083568791e-7,1.6489774712657466e-19,-1.3710059563326604e-12|Tile3,ffbef4,2,1.5,-37,-2.3784875224919458e-7,-3.5543672253602067e-8,0.30320296772928174|Boost4,ffffff,4.5,3.5,-49.5,-0.0002486544279393762,-0.00010440947469567038,0.9140731034325231|Boost5,ffffff,5.5,4,-62,-0.0011510174003372892,-0.0006259621289923881,1.21153075890787|Tile6,c0bdf2,0,1.5,-103.5,-0.0014700818048369402,1.771370217553741e-20,-2.4098942654137812e-17|AmiyaBar,ffffff,0,1.5,-112.5,-0.004240922769262616,1.2807989297060022e-15,-6.04020793885246e-13|Tile8,c0bdf2,0,1.5,-121.5,-0.004240922769262616,1.2807989297060022e-15,-6.04020793885246e-13|Boost9,ffffff,-4,2,-134.5,-0.004040911149347675,0.0012262935435505787,-0.6396317651739531|Boost10,ffffff,-4.5,2.5,-146.5,-0.0038490930619965104,0.0016162206805610422,-0.914071741009715|Boost11,ffffff,-5.5,3.5,-158.5,-0.003577783420407143,0.0019206274507709577,-1.1949647357705266|Tile12,c0bdf2,0,1.5,-191.5,-0.004805183834427359,-0.000007964649612534277,0.003315042722475239|Tile13,ffbef4,0,1.5,-203.5,-0.004805183834427359,-0.000007964649612534277,0.003315042722475239|Tile14,c0bdf2,0,1.5,-215.5,-0.004805183834427359,-0.000007964649612534277,0.003315042722475239|AmiyaBar,ffffff,0,1.5,-224.5,-0.0017560354611395664,-0.0000010636915872270613,0.0012114702893327146|Boost16,ffffff,10,3.5,-244.5,0.1164098944773129,0.05473657139458295,1.0373945004559755|Boost17,ffffff,9.5,3.5,-257,0.12270370721067561,0.0525455980030839,0.936227848150127|Tile18,c0bdf2,-0.5,2,-275.5,0.07778359743313903,-0.0002680174243307627,-0.006898338202641456|Boost19,ffffff,-7,5.5,-290,0.10341336929414888,-0.04520706485648329,-0.9571447308488146|Boost20,ffffff,-8,6,-303.5,0.03963772102244471,-0.01740267868444698,-0.9604307063499891|Goal,ffffff,1.5,7,-329.5,0,0,0|Player,ffffff,-2.5788118307445984e-8,7.749213218688965,-276.0594482421875,-0.002187702547412279,-1.9879210269982452e-11,-2.120906759261733e-14|Ball23,ffffff,0,4.5,-112,-0.0014797605852212411,-6.000517905879109e-19,8.1101228883716e-16|Ball24,ffffff,0,5,-207.5,-0.0014804843400698245,-1.7971659306504517e-19,2.4278089791610264e-16";
 const COLOUR_MAIN = new THREE.Color(0xc0bdf2);

diff --git a/js/amiyaroads.js b/js/amiyaroads.js
@@ -7,7 +7,7 @@ import { MapGenerator } from './maps/MapGenerator.js';
 import Stats from './jsm/libs/stats.module.js';
 import { LanguageToggle } from './utils/LanguageToggle.js';
 
-const versionString = "PRE-ALPHA Build 0.2.7 \"Buckopia\"";
+const versionString = "PRE-ALPHA Build 0.2.8 \"Buckopia\"";
 
 let stats;
 
